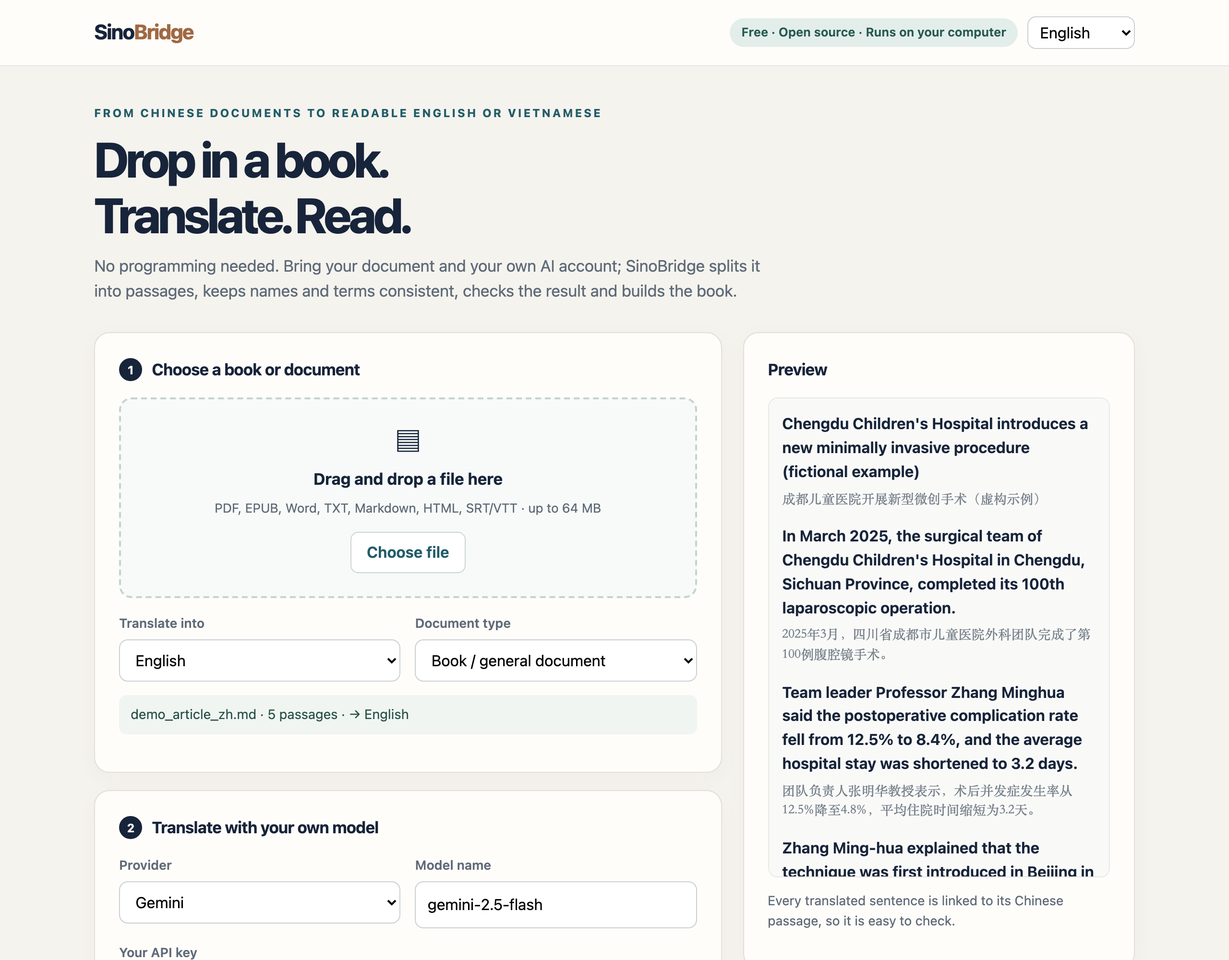
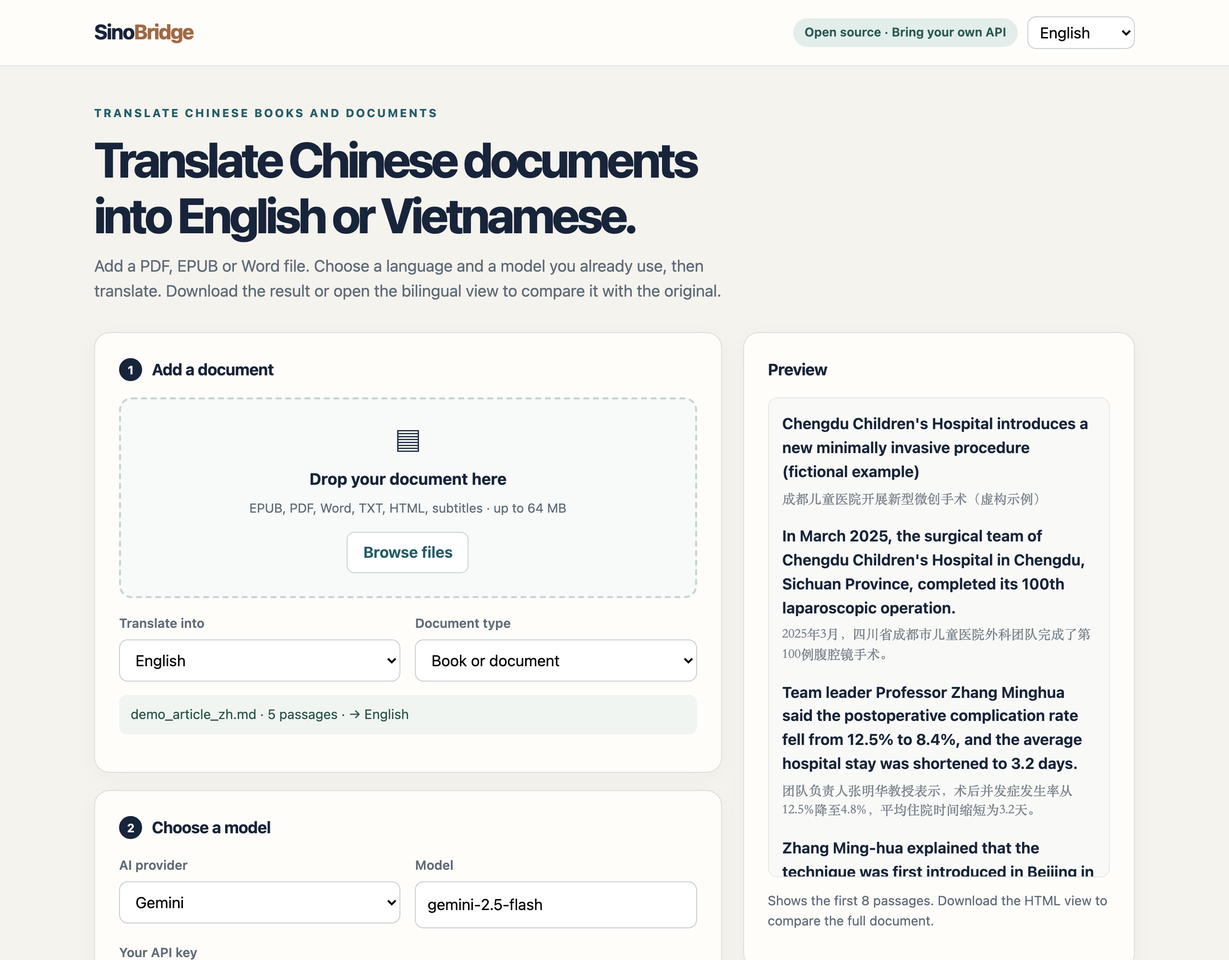
Polish SinoBridge UI and documentation copy

diff --git a/src/sinobridge/static/index.html b/src/sinobridge/static/index.html
@@ -115,46 +115,46 @@ const byId=id=>document.getElementById(id);
 let selected=null, poller=null;
 const defaults={gemini:"gemini-2.5-flash",openai:"gpt-4.1-mini",deepseek:"deepseek-chat",qwen:"qwen-plus",openrouter:"",ollama:"qwen2.5:7b"};
 const STR={
-vi:{tag:"Miễn phí · Mã nguồn mở · Chạy trên máy bạn",eyebrow:"TỪ TÀI LIỆU TIẾNG TRUNG ĐẾN BẢN ĐỌC TIẾNG VIỆT HOẶC TIẾNG ANH",
- h1:"Thả sách vào.<br>Dịch. Rồi đọc.",lede:"Không cần biết lập trình. Mang theo tài liệu và tài khoản AI của bạn; SinoBridge lo việc chia chương, giữ tên riêng và thuật ngữ thống nhất, kiểm tra và xuất sách.",
- step1:"Chọn sách hoặc tài liệu",dropAria:"Thả tài liệu hoặc bấm chọn file",dropHere:"Kéo thả file vào đây",formats:"PDF, EPUB, Word, TXT, Markdown, HTML, SRT/VTT · tối đa 64 MB",pick:"Chọn file",
- targetLabel:"Dịch sang",toVi:"Tiếng Việt",toEn:"Tiếng Anh (English)",kindLabel:"Loại tài liệu",kindBook:"Sách / tài liệu thông thường",kindPaper:"Bài báo khoa học",
- step2:"Dịch bằng model của bạn",provider:"Nhà cung cấp",ollama:"Ollama (chạy trên máy)",model:"Tên model",modelPh:"Model bạn có quyền sử dụng",key:"API key cá nhân",keyPh:"Dán API key của bạn (chỉ giữ trong RAM khi chạy)",
- keyNote:"SinoBridge không cung cấp model hay thanh toán API. Key không ghi vào file. Nội dung tài liệu chỉ được gửi tới nhà cung cấp khi bạn đồng ý.",
- consent:"Tôi có quyền xử lý tài liệu và đồng ý gửi nội dung tới dịch vụ đã chọn.",run:"Bắt đầu dịch",stop:"Dừng sau đoạn hiện tại",
- step3:"Đọc hoặc tải bản dịch",step3Note:"EPUB cho máy đọc sách, Word để chỉnh sửa, hoặc trang đọc song ngữ để đối chiếu. Bản chưa được người duyệt ghi rõ là bản nháp ở trang đầu.",
- bilingual:"Kèm câu tiếng Trung gốc trong EPUB / Word",dlReview:"↓ Đọc song ngữ",preview:"Bản xem trước",previewEmpty:"Sau khi thêm tài liệu, bạn sẽ thấy đoạn gốc và bản dịch ngay tại đây.",
- previewNote:"Mỗi câu dịch gắn với đúng đoạn tiếng Trung, dễ kiểm tra khi cần.",library:"Thư viện trên máy",noDocs:"Chưa có tài liệu.",privacy:"Riêng tư & bản quyền",
- privacyText:"Tài liệu lưu trên chính máy đang chạy ứng dụng. Không có tài khoản SinoBridge, không đồng bộ cloud và không gửi gì tới dịch vụ AI khi bạn chưa bấm dịch. Chỉ dịch hoặc chia sẻ nội dung bạn có quyền sử dụng.",
- aboutMt:"Về bản dịch tự động",aboutMtText:"Kiểm tra số liệu và thuật ngữ chỉ phát hiện được một số lỗi. Sách, tài liệu pháp lý và nghiên cứu y khoa vẫn cần người đọc xác minh nội dung quan trọng.",
- footer:"SinoBridge là dự án mã nguồn mở (MIT). Giao diện này chạy tại 127.0.0.1 trên máy của bạn, không phải dịch vụ lưu sách trên Internet. Muốn tắt, quay về cửa sổ lệnh và nhấn Ctrl+C.",
- noDoc:"Chưa có tài liệu.",segments:"đoạn",translatedOf:"đoạn đã dịch",untranslated:"[chưa dịch]",noText:"Không có văn bản để xem trước.",
- error:"Lỗi: ",unknown:"Không xác định",stopping:"Đang dừng sau yêu cầu model hiện tại…",stopped:"Đã dừng. Có thể tiếp tục với những đoạn còn lại.",
- doneN:"Đã dịch xong {t}/{n} đoạn. Có thể tải về.",workingN:"Đang dịch: {t}/{n} đoạn",partialN:"Đã có {t}/{n} đoạn. Bấm tiếp tục để dịch nốt.",readyN:"Sẵn sàng dịch {n} đoạn.",
- modelError:"Có lỗi khi gọi model: ",modelErrorHint:"Thử lại model hoặc key",doneNote:"Bản dịch đã tạo. Bạn có thể xuất EPUB hoặc Word.",tooBig:"File vượt 64 MB.",
- importing:"Đang nhập và đọc tài liệu…",imported:"Đã nhập tài liệu. Chọn model và bấm dịch.",cannotRead:"Không thể đọc tài liệu: ",chooseFirst:"Chọn tài liệu trước.",
- needConsent:"Cần đồng ý gửi nội dung tài liệu tới nhà cung cấp AI đã chọn.",working:"Đang xử lý. API key chỉ dùng trong bộ nhớ khi dịch.",stopNote:"Đang dừng sau đoạn hiện tại.",
- exportFail:"Không xuất được file",to:"→ "},
-en:{tag:"Free · Open source · Runs on your computer",eyebrow:"FROM CHINESE DOCUMENTS TO READABLE ENGLISH OR VIETNAMESE",
- h1:"Drop in a book.<br>Translate. Read.",lede:"No programming needed. Bring your document and your own AI account; SinoBridge splits it into passages, keeps names and terms consistent, checks the result and builds the book.",
- step1:"Choose a book or document",dropAria:"Drop a document or click to choose a file",dropHere:"Drag and drop a file here",formats:"PDF, EPUB, Word, TXT, Markdown, HTML, SRT/VTT · up to 64 MB",pick:"Choose file",
- targetLabel:"Translate into",toVi:"Vietnamese (Tiếng Việt)",toEn:"English",kindLabel:"Document type",kindBook:"Book / general document",kindPaper:"Scientific paper",
- step2:"Translate with your own model",provider:"Provider",ollama:"Ollama (runs locally)",model:"Model name",modelPh:"A model you have access to",key:"Your API key",keyPh:"Paste your API key (kept in memory only while running)",
- keyNote:"SinoBridge provides no model and no API billing. Your key is never written to disk. Document text goes to the provider only after you agree.",
- consent:"I have the right to process this document and agree to send its text to the selected service.",run:"Start translating",stop:"Stop after the current passage",
- step3:"Read or download the translation",step3Note:"EPUB for e-readers, Word for editing, or the bilingual review page for checking. Drafts not yet reviewed by a person say so on the first page.",
- bilingual:"Include the original Chinese in EPUB / Word",dlReview:"↓ Bilingual review",preview:"Preview",previewEmpty:"After you add a document, the source and its translation appear here.",
- previewNote:"Every translated sentence is linked to its Chinese passage, so it is easy to check.",library:"Library on this computer",noDocs:"No documents yet.",privacy:"Privacy & copyright",
- privacyText:"Documents stay on the computer running the app. There is no SinoBridge account and no cloud sync, and nothing is sent to an AI service until you start translating. Only translate or share content you have the right to use.",
- aboutMt:"About machine translation",aboutMtText:"Number and terminology checks catch only some errors. Books, legal documents and medical research still need a reader to verify what matters.",
- footer:"SinoBridge is an open-source (MIT) project. This interface runs at 127.0.0.1 on your computer; it is not an online book service. To quit, go back to the terminal window and press Ctrl+C.",
- noDoc:"No document yet.",segments:"passages",translatedOf:"passages translated",untranslated:"[untranslated]",noText:"No text to preview.",
- error:"Error: ",unknown:"Unknown",stopping:"Stopping after the current model request…",stopped:"Stopped. You can continue with the remaining passages.",
- doneN:"Translated {t}/{n} passages. Ready to download.",workingN:"Translating: {t}/{n} passages",partialN:"{t}/{n} passages done. Press start to continue.",readyN:"Ready to translate {n} passages.",
- modelError:"The model call failed: ",modelErrorHint:"Check the model name or key",doneNote:"Translation ready. You can export EPUB or Word.",tooBig:"File is larger than 64 MB.",
- importing:"Importing and reading the document…",imported:"Document imported. Choose a model and start translating.",cannotRead:"Cannot read the document: ",chooseFirst:"Choose a document first.",
- needConsent:"Please agree to send the document text to the selected AI provider.",working:"Working. Your API key is used in memory only.",stopNote:"Stopping after the current passage.",
- exportFail:"Could not export the file",to:"→ "}};
+vi:{tag:"Mã nguồn mở · Dùng API của bạn",eyebrow:"DỊCH SÁCH VÀ TÀI LIỆU TIẾNG TRUNG",
+ h1:"Dịch tài liệu tiếng Trung<br>sang tiếng Việt hoặc tiếng Anh.",lede:"Thêm file PDF, EPUB hoặc Word. Chọn ngôn ngữ và model bạn muốn dùng, rồi bắt đầu dịch. Khi hoàn tất, bạn có thể tải bản dịch hoặc mở bản song ngữ để đối chiếu.",
+ step1:"Thêm tài liệu",dropAria:"Kéo thả hoặc chọn tài liệu từ máy",dropHere:"Kéo thả tài liệu vào đây",formats:"EPUB, PDF, Word, TXT, HTML, phụ đề · tối đa 64 MB",pick:"Chọn từ máy",
+ targetLabel:"Dịch sang",toVi:"Tiếng Việt",toEn:"Tiếng Anh (English)",kindLabel:"Loại tài liệu",kindBook:"Sách hoặc tài liệu",kindPaper:"Bài báo nghiên cứu",
+ step2:"Chọn model để dịch",provider:"Dịch vụ AI",ollama:"Ollama (chạy trên máy)",model:"Model",modelPh:"Nhập tên model",key:"API key của bạn",keyPh:"Dán API key của dịch vụ đã chọn",
+ keyNote:"Bạn dùng API key của mình và trả phí trực tiếp cho dịch vụ AI nếu có. SinoBridge không lưu key vào file.",
+ consent:"Tôi có quyền sử dụng tài liệu này và đồng ý gửi nội dung để dịch.",run:"Dịch tài liệu",stop:"Dừng dịch",
+ step3:"Tải bản dịch",step3Note:"Chọn EPUB để đọc sách, Word để chỉnh sửa, hoặc HTML để xem song ngữ. Bản dịch máy được ghi rõ là bản nháp.",
+ bilingual:"Kèm bản gốc tiếng Trung trong EPUB và Word",dlReview:"↓ Bản song ngữ (HTML)",preview:"Xem trước",previewEmpty:"Chọn một tài liệu để xem nội dung.",
+ previewNote:"Hiện 8 đoạn đầu. Tải bản HTML để đối chiếu toàn bộ tài liệu.",library:"Tài liệu của bạn",noDocs:"Bạn chưa thêm tài liệu nào.",privacy:"Dữ liệu và bản quyền",
+ privacyText:"File được giữ trên máy đang chạy SinoBridge. Khi bạn bấm dịch bằng API, nội dung sẽ được gửi đến dịch vụ AI đã chọn. Hãy bảo đảm bạn có quyền sử dụng tài liệu.",
+ aboutMt:"Bản dịch có cần kiểm tra lại?",aboutMtText:"Có. Công cụ tự kiểm tra một số lỗi về số liệu và thuật ngữ nhưng vẫn có thể dịch sai. Với tài liệu chuyên môn, nên đối chiếu bản gốc trước khi sử dụng.",
+ footer:"SinoBridge chạy trên máy của bạn và lưu tài liệu tại đó. Để tắt ứng dụng, trở lại cửa sổ Terminal và nhấn Ctrl+C. Mã nguồn được phát hành theo giấy phép MIT.",
+ noDoc:"Bạn chưa thêm tài liệu nào.",segments:"đoạn",translatedOf:"đoạn đã dịch",untranslated:"[chưa dịch]",noText:"Không đọc được đoạn nào để xem trước.",
+ error:"Lỗi: ",unknown:"Không xác định",stopping:"Đang dừng. Đoạn đang dịch có thể cần thêm chút thời gian.",stopped:"Đã dừng. Bạn có thể dịch tiếp phần còn lại.",
+ doneN:"Đã dịch xong {t}/{n} đoạn. Chọn định dạng để tải về.",workingN:"Đang dịch {t}/{n} đoạn…",partialN:"Đã dịch {t}/{n} đoạn. Bấm Dịch tài liệu để tiếp tục.",readyN:"Tài liệu có {n} đoạn, sẵn sàng dịch.",
+ modelError:"Dịch bị gián đoạn: ",modelErrorHint:"Kiểm tra tên model và API key",doneNote:"Đã dịch xong. Bạn có thể tải file ở bước 3.",tooBig:"File lớn hơn giới hạn 64 MB.",
+ importing:"Đang đọc file…",imported:"Đã thêm tài liệu. Chọn model rồi bấm Dịch tài liệu.",cannotRead:"Không mở được file: ",chooseFirst:"Chọn tài liệu trước.",
+ needConsent:"Bạn cần đồng ý gửi nội dung cho dịch vụ AI trước khi dịch.",working:"Đã bắt đầu dịch. API key chỉ được giữ trong bộ nhớ trong lúc chạy.",stopNote:"Đang dừng sau đoạn đang dịch.",
+ exportFail:"Không tạo được file tải về",to:"→ "},
+en:{tag:"Open source · Bring your own API",eyebrow:"TRANSLATE CHINESE BOOKS AND DOCUMENTS",
+ h1:"Translate Chinese documents<br>into English or Vietnamese.",lede:"Add a PDF, EPUB or Word file. Choose a language and a model you already use, then translate. Download the result or open the bilingual view to compare it with the original.",
+ step1:"Add a document",dropAria:"Drop a document or choose a file",dropHere:"Drop your document here",formats:"EPUB, PDF, Word, TXT, HTML, subtitles · up to 64 MB",pick:"Browse files",
+ targetLabel:"Translate into",toVi:"Vietnamese (Tiếng Việt)",toEn:"English",kindLabel:"Document type",kindBook:"Book or document",kindPaper:"Research paper",
+ step2:"Choose a model",provider:"AI provider",ollama:"Ollama (runs locally)",model:"Model",modelPh:"Enter a model name",key:"Your API key",keyPh:"Paste your API key for this provider",
+ keyNote:"Use your own API key. Any API charges go directly to your provider. SinoBridge does not save the key to a file.",
+ consent:"I have the right to use this document and agree to send its text for translation.",run:"Translate document",stop:"Stop translation",
+ step3:"Download your translation",step3Note:"Choose EPUB to read, Word to edit, or HTML to compare both languages. Machine-translated text is labeled as a draft.",
+ bilingual:"Include the Chinese original in EPUB and Word",dlReview:"↓ Bilingual HTML",preview:"Preview",previewEmpty:"Choose a document to preview it.",
+ previewNote:"Shows the first 8 passages. Download the HTML view to compare the full document.",library:"Your documents",noDocs:"You haven't added any documents.",privacy:"Your files and copyright",
+ privacyText:"Your files stay on the computer running SinoBridge. If you translate through an API, the text is sent to the provider you selected. Make sure you have the right to use the document.",
+ aboutMt:"Should I check the translation?",aboutMtText:"Yes. Automatic checks can flag some problems with numbers and terms, but the translation may still be wrong. Check important material against the original.",
+ footer:"SinoBridge runs on your computer and keeps the files there. To close it, return to the terminal and press Ctrl+C. Source code is available under the MIT license.",
+ noDoc:"No document selected.",segments:"passages",translatedOf:"passages translated",untranslated:"[untranslated]",noText:"No text available for preview.",
+ error:"Error: ",unknown:"Unknown",stopping:"Stopping. The current passage may take a little longer.",stopped:"Stopped. You can translate the rest later.",
+ doneN:"Translated {t}/{n} passages. Choose a file format below.",workingN:"Translating {t}/{n} passages…",partialN:"{t}/{n} passages translated. Click Translate document to continue.",readyN:"This document has {n} passages ready to translate.",
+ modelError:"Translation stopped: ",modelErrorHint:"Check your model name and API key",doneNote:"Translation complete. Download a file in step 3.",tooBig:"This file exceeds the 64 MB limit.",
+ importing:"Reading your file…",imported:"Document added. Choose a model, then click Translate document.",cannotRead:"Couldn't open the file: ",chooseFirst:"Choose a document first.",
+ needConsent:"Please agree to send the text to your chosen AI provider before translating.",working:"Translation started. Your API key stays in memory while the job runs.",stopNote:"Stopping after the current passage.",
+ exportFail:"Couldn't prepare the download",to:"→ "}};
 let LANG=localStorage.getItem("sinobridge-ui")||((navigator.language||"").toLowerCase().startsWith("vi")?"vi":"en");
 const t=(k,v={})=>(STR[LANG][k]||STR.en[k]||k).replace(/\{(\w+)\}/g,(_,x)=>v[x]);
 function applyLang(){

diff --git a/src/sinobridge/review.py b/src/sinobridge/review.py
@@ -55,22 +55,22 @@ def approval_is_current(seg: dict) -> bool:
     return seg["status"] == "APPROVED" and appr.get("translation_hash") == text_hash(seg.get("translation"))
 
 UI = {
-    "vi": {"title": "Song ngữ: ", "draft": "BẢN NHÁP — chưa qua kiểm định", "only": "chỉ đoạn có lỗi",
-           "showzh": "hiện song song tiếng Trung", "missing": "chưa dịch", "noaudit": "chưa chạy audit",
-           "pick": "Chọn một đoạn tiếng Việt để xem đoạn nguồn tiếng Trung, lỗi kiểm định, ghi chú và lịch sử sửa.",
+    "vi": {"title": "Song ngữ: ", "draft": "Bản dịch cần đối chiếu với bản gốc", "only": "chỉ đoạn có cảnh báo",
+           "showzh": "hiện cả tiếng Trung", "missing": "chưa dịch", "noaudit": "chưa kiểm tra tự động",
+           "pick": "Chọn một đoạn để xem bản gốc tiếng Trung, các cảnh báo và lịch sử sửa.",
            "source": "Nguồn tiếng Trung", "hover": "Rê chuột lên chữ Hán để xem âm Hán Việt.", "location": "vị trí",
-           "status": "trạng thái", "issues": "Lỗi kiểm định", "noflags": "Không có cờ tự động (không đồng nghĩa với đúng nghĩa).",
+           "status": "trạng thái", "issues": "Cảnh báo tự động", "noflags": "Không có cảnh báo tự động cho đoạn này.",
            "terms": "Tên riêng / thuật ngữ", "locked": "đã khoá", "auto": "tự động", "model": "mô hình",
-           "notes": "Mơ hồ / ghi chú", "approval": "Duyệt", "notapproved": "chưa duyệt",
-           "stale": "KHÔNG còn hiệu lực: bản dịch đã đổi", "history": "Lịch sử sửa"},
-    "en": {"title": "Bilingual: ", "draft": "DRAFT — not quality approved", "only": "only passages with issues",
-           "showzh": "show Chinese alongside", "missing": "untranslated", "noaudit": "audit not run",
-           "pick": "Click an English passage to see its Chinese source, QA flags, notes and revision history.",
+           "notes": "Chỗ cần xem lại / ghi chú", "approval": "Duyệt", "notapproved": "chưa duyệt",
+           "stale": "Bản dịch đã sửa. Cần duyệt lại.", "history": "Lịch sử sửa"},
+    "en": {"title": "Bilingual: ", "draft": "Check this translation against the source", "only": "only passages with flags",
+           "showzh": "show Chinese text", "missing": "untranslated", "noaudit": "automatic checks not run",
+           "pick": "Select a passage to see its Chinese source, flags and edit history.",
            "source": "Chinese source", "hover": "Hover over a character to see its pinyin.", "location": "location",
-           "status": "status", "issues": "QA flags", "noflags": "No automatic flags (this does not mean the meaning is right).",
+           "status": "status", "issues": "QA flags", "noflags": "No automatic flags for this passage.",
            "terms": "Names / terms", "locked": "locked", "auto": "auto", "model": "model",
-           "notes": "Ambiguities / notes", "approval": "Approval", "notapproved": "not approved",
-           "stale": "NO LONGER VALID: translation changed", "history": "Revision history"},
+           "notes": "Questions / notes", "approval": "Approval", "notapproved": "not approved",
+           "stale": "Translation edited after approval. Review again.", "history": "Revision history"},
 }
 
 PAGE = """<!DOCTYPE html>

diff --git a/tests/test_core.py b/tests/test_core.py
@@ -306,6 +306,6 @@ class EnglishTargetTests(unittest.TestCase):
             self.assertIn(b"<dc:language>en</dc:language>", z.read("OEBPS/content.opf"))
             self.assertIn(b"Draft machine translation", z.read("OEBPS/title.xhtml"))
         page = review_html(ws, root / "r.html").read_text(encoding="utf-8")
-        self.assertIn("Click an English passage", page)
+        self.assertIn("Select a passage to see its Chinese source", page)
         self.assertIn('lang="en"', page)
         tmp.cleanup()

diff --git a/tests/test_webapp.py b/tests/test_webapp.py
@@ -34,7 +34,7 @@ class WebAppTests(unittest.TestCase):
         self.base = "http://127.0.0.1:" + str(self.port)
         with urlopen(self.base + "/") as r:
             self.page = r.read().decode()
-        self.assertIn("Thả sách vào.", self.page)
+        self.assertIn("Dịch tài liệu tiếng Trung", self.page)
         self.token = self.page.split("const TOKEN=")[1].split(";")[0].strip('"')
         self.assertGreater(len(self.token), 30)
 

diff --git a/README.en.md b/README.en.md
@@ -1,22 +1,20 @@
 # SinoBridge
 
-**Read, translate and research Chinese documents in English or Vietnamese, with every translated sentence traceable to its exact Chinese source.**
+**Translate Chinese books and documents into English or Vietnamese. Compare each translated passage with its source.**
 
 [Tiếng Việt](README.md) · **English**
 
-SinoBridge is an open-source (MIT) toolkit with three parts sharing one core:
+SinoBridge is an open-source tool for translating Chinese documents on your computer. Add a file, choose a language and your own AI model, then download the translation. The command-line interface also supports research workflows.
 
 | Part | What it does |
 |---|---|
-| **Sources** (connectors) | Brings in Chinese material from files (TXT, Markdown, DOCX, EPUB, PDF), public web pages (WeChat articles, Zhihu, news, blogs, Wikipedia), pages saved from your browser, video subtitles (Bilibili/Douyin `.srt`/`.vtt`) and citation exports from CNKI/Wanfang/VIP/SinoMed. A plugin interface lets anyone add more sources. |
-| **Translate & check** | Translates passage by passage, with context, into **English or Vietnamese** using the model you choose (GPT, Gemini, DeepSeek, Qwen...). Chinese **names and terms** come out in standard forms (pinyin or established English names; Hán-Việt for Vietnamese), and a per-project term memory keeps them consistent from the first chapter to the last. Automatic checks cover numbers, DOIs, citations, terminology and Chinese legal/policy context. Corrections keep their history, and an approval applies only to the exact text that was approved. |
-| **Clean output** | EPUB3 with chapters and a table of contents, DOCX, Markdown, translated `.srt`/`.vtt` subtitles, and an offline bilingual review page: click a translated sentence to see its Chinese source, QA flags, notes and revision history. |
+| **Import files** | Open EPUB, text-based PDF, Word, TXT, Markdown, HTML and subtitles. The CLI also imports public web pages and citation exports from CNKI/Wanfang/VIP/SinoMed; it does not access paid databases directly. |
+| **Translate and check** | Translate into English or Vietnamese with your own model/API key, or use Ollama locally. A term memory keeps names consistent; automatic checks flag some problems with numbers and citations. |
+| **Read and export** | Download EPUB, Word, Markdown, subtitles or offline bilingual HTML. Select a passage to see its Chinese source, notes and revision history. |
 
 ![Bilingual review page: click a translated sentence to see the Chinese source, QA flags, names and pinyin](docs/images/review-page-en.png)
 
-*The bilingual review page is a single HTML file that opens offline. Passage 2 has a red border because a number
-was mistranslated (4.8% became 8.4%). Passage 3 is selected: the name 张明华 appears as "Zhang Ming-hua" instead of
-the agreed "Zhang Minghua". Hovering over 北 shows its pinyin, "běi".*
+*In the offline bilingual review page, a red border flags a number mismatch. Select a passage to see its Chinese source, terms and review notes. Hover over 北 to see its pinyin.*
 
 ## How it works
 
@@ -32,25 +30,21 @@ flowchart LR
     T -.-> D
 ```
 
-Every translated sentence keeps its passage ID and its location in the original (line, page, block, subtitle timestamp), so you can
-always trace it back to the exact Chinese sentence.
+Each translated passage retains a source ID and location (line, page or subtitle timestamp), so you can look up the corresponding Chinese passage.
 
-## Quick start: drag-and-drop app (no programming)
+## Get started: drag and drop
 
-![Drag-and-drop app: choose a file, translate into English or Vietnamese with your own model, download EPUB/Word](docs/images/gui-en.png)
+![SinoBridge desktop browser interface](docs/images/gui-en.png)
 
-1. Install **Python 3.10+** (python.org). Download this repository (**Code → Download ZIP**) and unzip it.
-2. Double-click **scripts/Start SinoBridge.command** (macOS) or **scripts/Start SinoBridge.bat** (Windows).
-   The first run installs the libraries it needs; later runs open the app in your browser right away.
-3. Drop in a document (EPUB, PDF with a text layer, Word, TXT, subtitles…) and choose **English** or **Vietnamese**.
-4. Pick a provider (Gemini, OpenAI, DeepSeek, Qwen, OpenRouter), enter a model name and **your own API key**, tick the
-   consent box and press **Start translating**. You can stop at any time; finished passages are kept.
-5. Download **EPUB, Word, Markdown** or the **bilingual review page**.
+1. Install Python 3.10+ if needed. On GitHub select Code → Download ZIP and unzip the repository.
+2. Double-click Start SinoBridge.command (macOS) or Start SinoBridge.bat (Windows) in the scripts folder. The first run installs the required libraries.
+3. Drop in a file and choose English or Vietnamese.
+4. Choose an AI provider, enter your model name and API key, or select Ollama if you have a local model. Consent before sending text to a remote provider, then click **Translate document**.
+5. Download EPUB, Word, Markdown or the bilingual HTML file. Finished passages are kept if you stop mid-translation.
 
-The interface is available in English and Vietnamese (switch in the top corner). The app runs on your own computer
-(127.0.0.1): no account and no cloud sync. Your API key stays in memory only while translating and is never written to
-disk. Documents are stored in `~/.sinobridge/projects`. Any API charges are between you and your provider. To quit,
-press Ctrl+C in the terminal window. Command-line users can run `sinobridge serve --open`.
+The interface works in English and Vietnamese. Files are stored in the .sinobridge/projects folder under your home directory. SinoBridge does not sync them. If you translate through an API, text goes to the selected provider and any fees are billed by that provider. The API key is not saved to disk.
+
+For installation help, see [the quickstart guide](docs/quickstart-gui.md). CLI users can run the sinobridge serve --open command.
 
 ## Install (command line)
 
@@ -121,7 +115,7 @@ Numbers are compared by value, not by string:
 
 A changed value (5% → 50%) is flagged HIGH.
 
-## Publish
+## Export files
 
     sinobridge export --workspace work/book  --format epub --out out/book.epub
     sinobridge export --workspace work/book  --format epub --bilingual --out out/book-bilingual.epub
@@ -156,7 +150,7 @@ Pages carry no "draft" banners. The review status is stated once, honestly, on t
 
 - **Traceability**: every passage has an ID, its location in the original and the SHA-256 of the source; fetched web pages are saved
   as a snapshot, because web content changes.
-- **No false certainty**: automated checks are partial evidence. No semantic or scientific gate is ever passed automatically. See the
+- **Limits of automatic checks**: automated checks are partial evidence. No semantic or scientific gate is ever passed automatically. See the
   [QA policy](docs/qa-policy.md).
 - **Rights and privacy**: text goes to an API only with `--allow-external`; there is no paywall bypass and no bulk crawling, and
   robots.txt is honored. Translating a text does not remove the original author's copyright.

diff --git a/docs/quickstart-gui.md b/docs/quickstart-gui.md
@@ -1,40 +1,38 @@
-# SinoBridge — 3 bước cho người chưa biết lập trình
+# Bắt đầu với SinoBridge
 
-SinoBridge là ứng dụng tự chạy trên máy tính, không có server lưu tài liệu và không cần tài khoản SinoBridge.
+SinoBridge giúp dịch sách hoặc tài liệu tiếng Trung sang tiếng Việt và tiếng Anh. Bạn dùng model/API key của mình. Ứng dụng lưu tài liệu trên máy đang chạy, không cần tạo tài khoản SinoBridge.
 
-## macOS
+## Cài trên Mac
 
-1. Cài Python 3.10+ nếu máy chưa có.
-2. Tải repository về máy (GitHub → Code → Download ZIP), giải nén.
-3. Nhấp đúp vào **scripts/Start SinoBridge.command**. Lần đầu ứng dụng cài các thư viện cần thiết và cần Internet; các lần sau chỉ khởi động. Nếu macOS chưa cho chạy script tải từ Internet, dùng Terminal mở file sau khi xem nội dung và xác nhận bạn tin nguồn.
-4. Trình duyệt mặc định mở giao diện SinoBridge.
+1. Cài Python 3.10 trở lên nếu máy chưa có.
+2. Trên GitHub, chọn Code → Download ZIP rồi giải nén.
+3. Mở thư mục scripts và nhấp đúp **Start SinoBridge.command**.
+4. Lần đầu máy sẽ tải các thư viện cần thiết. Sau khi xong, giao diện mở trong trình duyệt.
 
-## Windows
+macOS có thể cảnh báo khi chạy script tải từ Internet. Hãy kiểm tra file và nguồn tải trước khi cho phép chạy.
 
-1. Cài Python 3.10+ từ python.org, bật mục Add Python to PATH nếu có.
-2. Download ZIP và giải nén repository.
-3. Nhấp đúp **scripts/Start SinoBridge.bat**. Lần đầu cài thư viện cần thiết qua pip.
-4. Trình duyệt mặc định mở SinoBridge.
+## Cài trên Windows
 
-## Dịch
+1. Cài Python 3.10 trở lên từ python.org.
+2. Tải bản ZIP trên GitHub và giải nén.
+3. Trong thư mục scripts, nhấp đúp **Start SinoBridge.bat**.
+4. Lần đầu máy cài các thư viện cần thiết. Giao diện sẽ mở trong trình duyệt.
 
-- Thả file sách EPUB/PDF/DOCX/TXT hoặc tài liệu vào giao diện, chọn **dịch sang Tiếng Việt hoặc English**.
-- Chọn nhà cung cấp AI mà **bạn tự có API key và quyền truy cập**, nhập model ID và key; hoặc chọn Ollama nếu đã cài model trên máy.
-- Tích chọn đồng ý gửi tài liệu tới dịch vụ ngoài (không cần khi dùng Ollama).
-- Nhấn Bắt đầu dịch, xem tiến độ và tải EPUB/Word/bản song ngữ.
+## Dịch tài liệu
 
-Đối với model qua API, nhà cung cấp có thể tính phí; SinoBridge không thu phí hay cấp key. Nếu máy đã có Ollama, phải tự tải model tương ứng trước.
-Dữ liệu nằm trong ~/.sinobridge/projects. API key giữ trong RAM một tác vụ, không lưu vào dự án. Chỉ khi người dùng nhấn dịch thì nội dung mới được gửi ra dịch vụ model đã chọn.
+1. Thả file EPUB, PDF, Word hoặc TXT vào ô chọn file.
+2. Chọn tiếng Việt hoặc tiếng Anh và loại tài liệu.
+3. Chọn dịch vụ AI, nhập tên model và API key bạn có. Nếu dùng Ollama, bạn cần cài sẵn model trên máy.
+4. Xác nhận quyền gửi tài liệu đến dịch vụ AI (không cần với Ollama), rồi bấm **Dịch tài liệu**.
+5. Chờ dịch xong hoặc dừng giữa chừng. Bạn có thể mở lại để dịch tiếp những đoạn còn lại.
+6. Tải EPUB, Word, Markdown hoặc file HTML song ngữ.
 
-## Giới hạn hiện tại
+**Chi phí:** SinoBridge không thu phí dịch. Dịch vụ AI có thể tính tiền API theo gói của bạn.
 
-Đây là ứng dụng nguồn mở chạy local, **không phải chương trình cài đặt độc lập**: phải có Python lần đầu.
-Bản dịch tự động có thể sai. PDF scan, bảng biểu và công thức cần kiểm tra thủ công.
-Không tự phát hành bản dịch của sách có bản quyền.
+**Dữ liệu:** Tài liệu lưu ở thư mục .sinobridge/projects trong thư mục home. API key chỉ dùng trong bộ nhớ khi dịch, không được ghi ra file. Khi dùng model qua API, nội dung tài liệu được gửi đến nhà cung cấp đã chọn.
 
-## English (short)
+**Lưu ý:** Đây chưa phải ứng dụng cài đặt độc lập; máy vẫn cần Python. PDF dạng ảnh scan cần OCR trước. Bản dịch tự động có thể sai ở số liệu, tên riêng, bảng biểu và thuật ngữ chuyên môn. Kiểm tra nội dung quan trọng với bản gốc trước khi dùng. Việc xuất bản hoặc chia sẻ bản dịch phải tuân thủ quyền tác giả.
 
-Install Python 3.10+, download the repository ZIP, double-click `scripts/Start SinoBridge.command` (macOS) or
-`scripts/Start SinoBridge.bat` (Windows). Drop in a document, choose English or Vietnamese, enter your own model and
-API key, start translating, then download EPUB/Word or the bilingual review page. The interface language can be
-switched in the top corner.
+## Quick start in English
+
+Install Python 3.10+, download and unzip the repository, then double-click **Start SinoBridge.command** on macOS or **Start SinoBridge.bat** on Windows (in the scripts folder). Drop in your document, choose English or Vietnamese, enter your own model and API key, then translate and download EPUB/Word or bilingual HTML. You can switch the interface language in the top-right corner.
